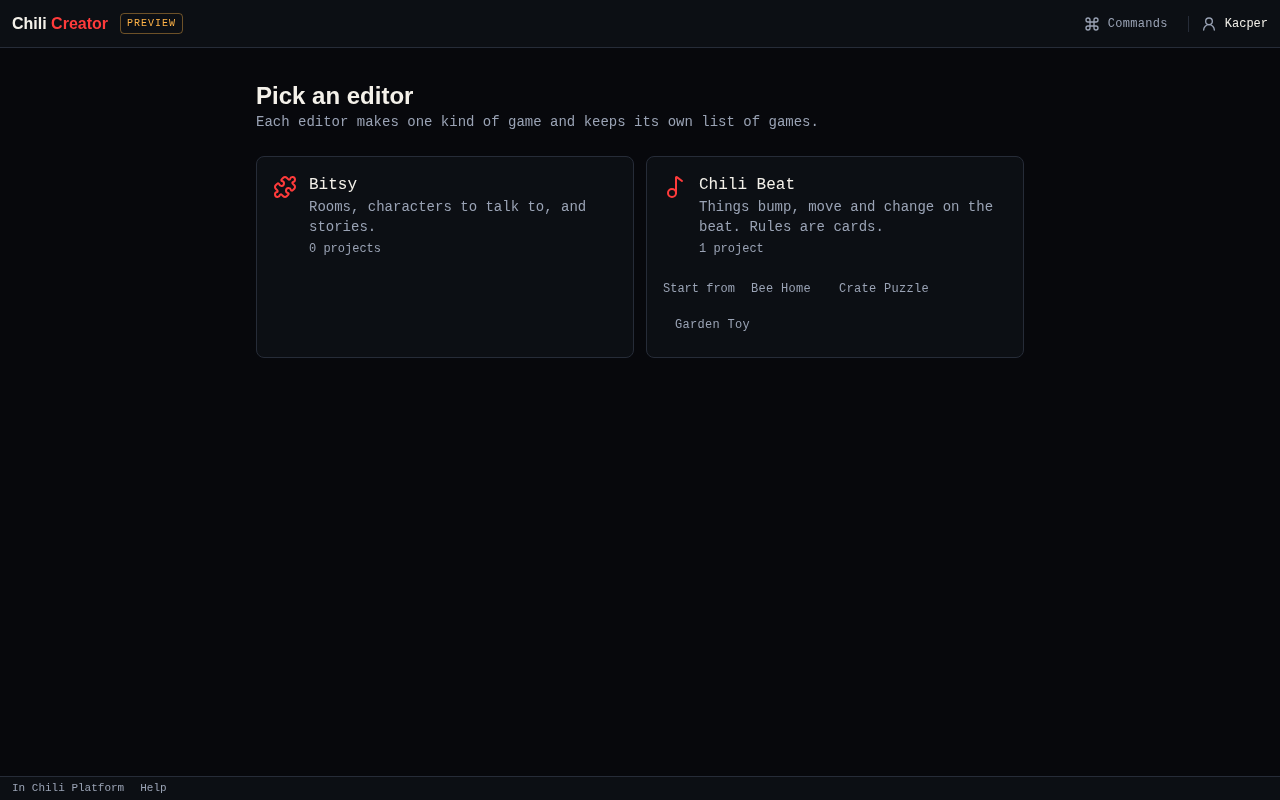
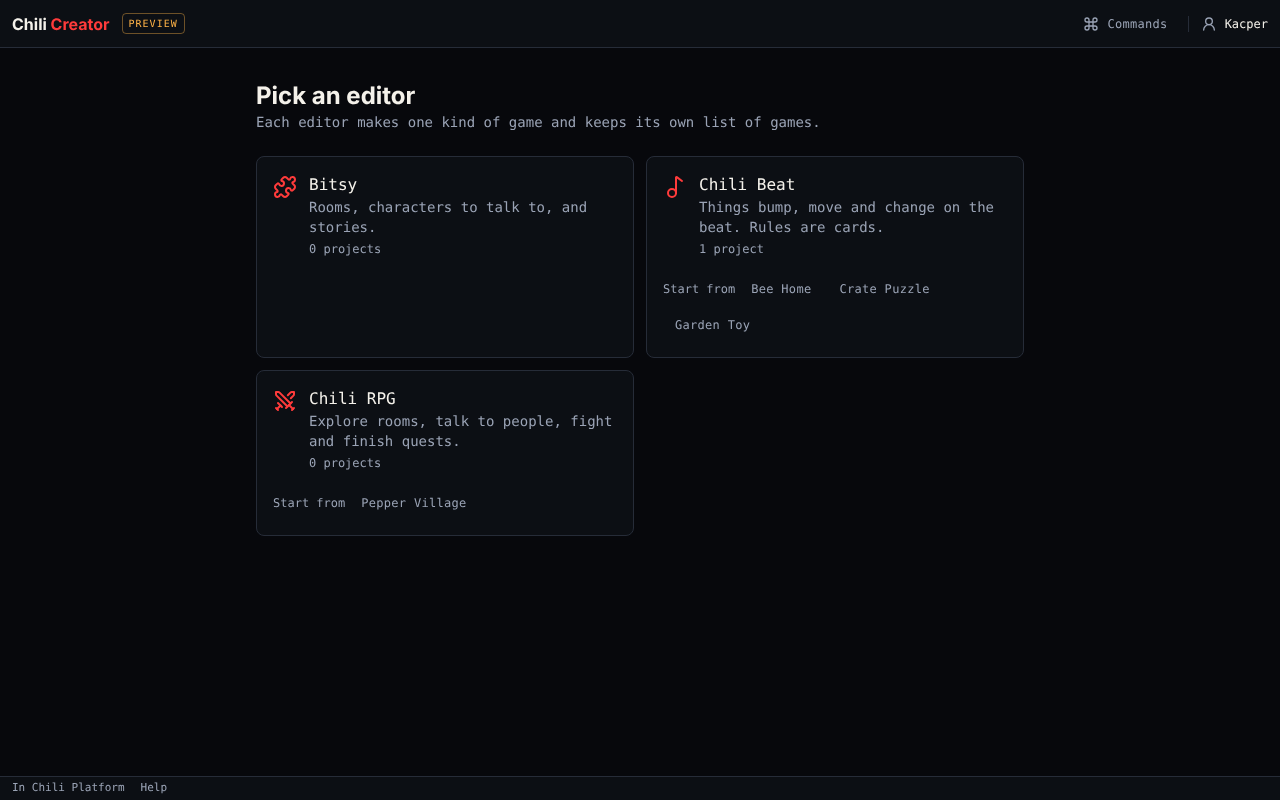
Turn on the Chili RPG editor
Pick an editor now offers Chili RPG. The get-started pages list it.
Merge after chili-chip/chili-platform#220, so the platform accepts rpg games.

diff --git a/app/src/agent/shared.test.ts b/app/src/agent/shared.test.ts
@@ -19,7 +19,7 @@ describe('shared agent tools', () => {
       open: { title: 'Test game', engine: 'bitsy', released: false },
       canUndo: false,
     });
-    expect(status.engines.map((e: { id: string }) => e.id)).toEqual(['bitsy', 'beat']);
+    expect(status.engines.map((e: { id: string }) => e.id)).toEqual(['bitsy', 'beat', 'rpg']);
     expect(status.engines[1].templates).toEqual(['Bee Home', 'Crate Puzzle', 'Garden Toy']);
   });
 
@@ -33,7 +33,7 @@ describe('shared agent tools', () => {
     expect(await call('new_game', { engine: 'beat', template: 'Nope' })).toEqual({
       error: 'Chili Beat has no template called "Nope". Templates: Bee Home, Crate Puzzle, Garden Toy.',
     });
-    expect(await call('new_game', { engine: 'zx' })).toEqual({ error: 'No engine is called "zx". Engines: bitsy, beat.' });
+    expect(await call('new_game', { engine: 'zx' })).toEqual({ error: 'No engine is called "zx". Engines: bitsy, beat, rpg.' });
   });
 
   it('list_projects, open_project, copy_project and close_game work on the person’s games', async () => {

diff --git a/app/src/creator.ts b/app/src/creator.ts
@@ -74,7 +74,7 @@ export function createCreator({
   loadCatalog,
   languages,
   engines: engineModules = [bitsyEngine, beatEngine as EngineModule, rpgEngine as EngineModule],
-  enabledEngines = ['bitsy', 'beat'],
+  enabledEngines = ['bitsy', 'beat', 'rpg'],
   search = typeof location === 'undefined' ? '' : location.search,
   engine: initialEngine,
   modelContext = typeof window === 'undefined' ? null : findModelContext(),

diff --git a/docs/get-started/open-the-creator.md b/docs/get-started/open-the-creator.md
@@ -23,7 +23,7 @@ The creator opens on **Pick an editor**: one card for each kind of game, with
 how many projects you have in each. Pick one and its editor opens on
 **Projects**, the list of your games for that editor.
 
-![Pick an editor: Bitsy and Chili Beat, with Chili Beat's example games](../assets/screenshots/engine-choice.png){ .shot }
+![Pick an editor: Bitsy, Chili Beat and Chili RPG, with each editor's example games](../assets/screenshots/engine-choice.png){ .shot }
 
 Opening a game from the platform skips this screen and opens the game in its
 editor. To switch editors later, press the editor's name at the top left
@@ -35,7 +35,7 @@ editor. To switch editors later, press the editor's name at the top left
 
 | You want to | Do this |
 |---|---|
-| Start from scratch | In the editor you picked, choose **New game**: [Bitsy](../editors/bitsy/index.md) for story games, [Chili Beat](../editors/beat/index.md) for games on the beat. Or start from one of the editor's example games, on its card or under **New game**. |
+| Start from scratch | In the editor you picked, choose **New game**: [Bitsy](../editors/bitsy/index.md) for story games, [Chili Beat](../editors/beat/index.md) for games on the beat, [Chili RPG](../editors/rpg/index.md) for adventures with quests. Or start from one of the editor's example games, on its card or under **New game**. |
 | Keep working on a game | Choose **Open** on it. |
 | Bring in a game from the Bitsy editor | Choose **Import** and pick a `.bitsy` file, or a web page exported from Bitsy (`.html`). It becomes a new game. |
 | Try something without changing a game | Choose **Duplicate** (the copy icon) and open the copy. |

diff --git a/docs/editors/beat/index.md b/docs/editors/beat/index.md
@@ -30,7 +30,7 @@ Open the creator and pick **Chili Beat**. In **Projects**, press **New game**
 for a blank game, or start from **Bee Home**, **Crate Puzzle** or **Garden Toy**
 (on the Chili Beat card, or under **New game**).
 
-![Pick an editor: Bitsy and Chili Beat, with Chili Beat's example games](../../assets/screenshots/engine-choice.png){ .shot }
+![Pick an editor: Bitsy, Chili Beat and Chili RPG, with each editor's example games](../../assets/screenshots/engine-choice.png){ .shot }
 
 A blank game has a hero in a walled room and one rule: *When you press an
 arrow, you move that way.* The [Bee Home tutorial](tutorial.md) builds a whole

diff --git a/docs/get-started/index.md b/docs/get-started/index.md
@@ -22,5 +22,6 @@ Then pick an editor and build your first real game:
 |---|---|---|
 | [Bitsy editor](../editors/bitsy/index.md) | Story games with rooms, characters, dialog and endings | [Chili Garden](../editors/bitsy/tutorial/index.md) |
 | [Chili Beat editor](../editors/beat/index.md) | Games where things bump, move and change on the beat | [Bee Home](../editors/beat/tutorial.md) |
+| [Chili RPG editor](../editors/rpg/index.md) | Adventures: explore rooms, talk, fight, collect items and finish quests | [Lost Ring](../editors/rpg/tutorial.md) |
 
 Not sure which? See [Editors](../editors/index.md).

diff --git a/docs/get-started/phone.md b/docs/get-started/phone.md
@@ -31,4 +31,4 @@ On a screen narrower than 640 pixels, the creator shows **one tool at a time**. 
 
 ## Next
 
-Start a tutorial: [Chili Garden](../editors/bitsy/tutorial/index.md) in the Bitsy editor or [Bee Home](../editors/beat/tutorial.md) in the Chili Beat editor.
+Start a tutorial: [Chili Garden](../editors/bitsy/tutorial/index.md) in the Bitsy editor, [Bee Home](../editors/beat/tutorial.md) in the Chili Beat editor, or [Lost Ring](../editors/rpg/tutorial.md) in the Chili RPG editor.

diff --git a/docs/editors/index.md b/docs/editors/index.md
@@ -33,4 +33,4 @@ brings its own tools.
 - **Import** reads Bitsy files and pages. A `.beat` file opens in the Chili
   Beat editor, and a `.rpg` file in the Chili RPG editor.
 
-![Pick an editor: Bitsy and Chili Beat, with Chili Beat's example games](../assets/screenshots/engine-choice.png){ .shot }
+![Pick an editor: Bitsy, Chili Beat and Chili RPG, with each editor's example games](../assets/screenshots/engine-choice.png){ .shot }
